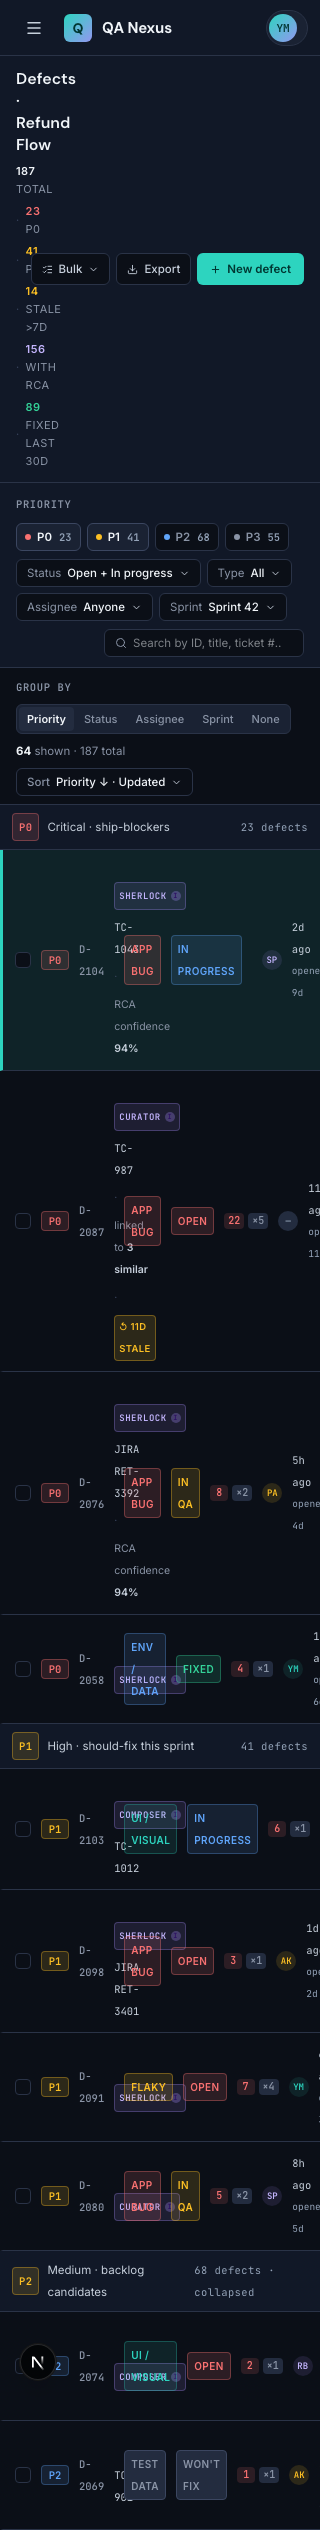
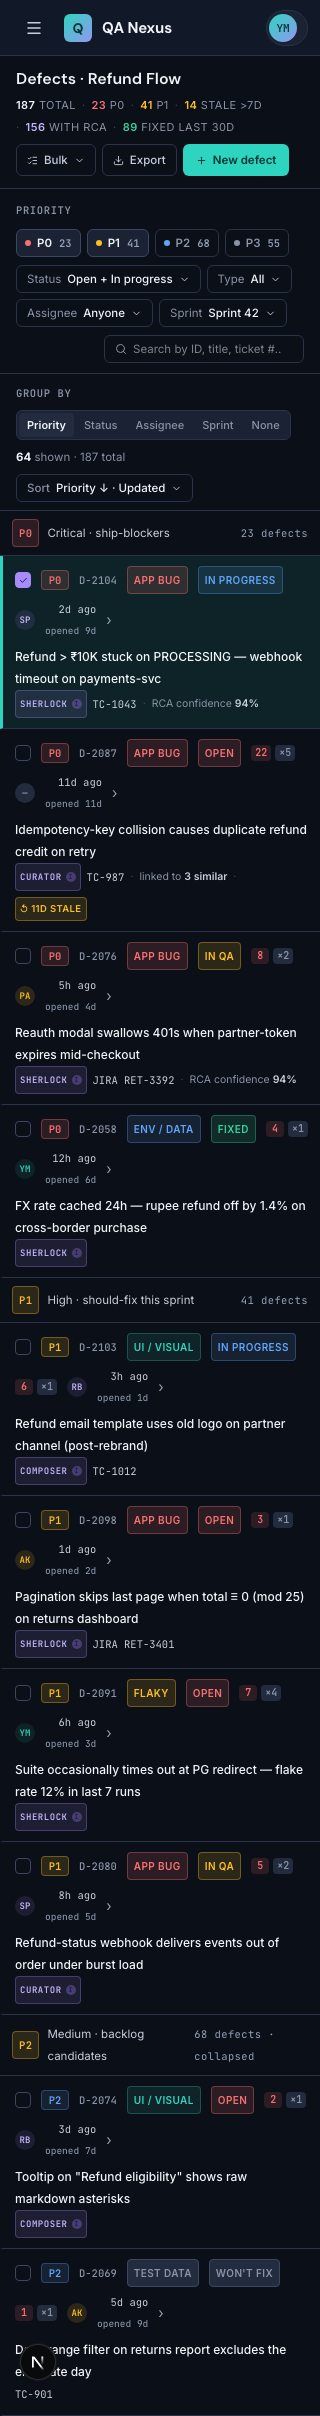
fix(web): f21 round-3 — checkbox fill + bg audit + mobile RWD
Yogesh's round-2 visual gate caught 2 issues:

1. Checkbox fill state on selected defect row:
   - Was: `color: transparent` always — Check icon invisible even when
     row selected. User couldn't see selection state at all.
   - Fix: When isSelected → fill bg with --secondary (violet, canonical
     L362 `.dfrow .ck.on{background:var(--secondary)}`), border violet,
     check icon visible in --secondary-ink.
   - Was wrong color choice too: --primary teal would have been wrong
     even if visible. Canonical uses --secondary violet.

2. Section background colors didn't match canonical:
   - .filter-strip: was --base → canonical L267 sets --canvas. Fixed.
   - .def-head: was --base → canonical L239 has no bg rule (inherits
     canvas via .app-body). Removed explicit bg.
   - .group-sep: was --base → canonical L335 has no bg rule (inherits
     list-pane canvas). Removed explicit bg.
   - .list-pane bg already correct (inherits --canvas from def-shell).
   - .sd-rail bg already correct (--canvas).

3. Mobile (320 px) responsive layout — heavy overlap:
   - def-head: switched from `flex flex-wrap` (which caused dh-left
     stats and dh-right buttons to overlap because stats wrapped before
     dh-right wrapped to its own line) → `flex-col gap-y-2 md:flex-row`.
     Stats stay in left column, buttons drop to row below on mobile.
   - def-head stats: added `whitespace-nowrap` per stat pair so "23 P0"
     stays atomic (was wrapping count and label onto separate lines).
[…]

diff --git a/apps/web/components/defects/defect-row.tsx b/apps/web/components/defects/defect-row.tsx
@@ -73,20 +73,25 @@ export function DefectRowItem({ row, isSelected, onSelect }: Props) {
       onMouseLeave={(e) => {
         if (!isSelected) e.currentTarget.style.background = 'transparent';
       }}
-      className="grid w-full grid-cols-[auto_auto_auto_minmax(0,1fr)_auto_auto_auto_auto_auto_auto] items-center gap-2.5 border-b px-3 py-2.5 text-left transition-colors focus-visible:outline-none focus-visible:ring-2 focus-visible:ring-inset focus-visible:ring-[var(--secondary)]"
+      className="flex w-full flex-wrap items-center gap-x-2.5 gap-y-1 border-b px-3 py-2.5 text-left transition-colors focus-visible:outline-none focus-visible:ring-2 focus-visible:ring-inset focus-visible:ring-[var(--secondary)] md:grid md:grid-cols-[auto_auto_auto_minmax(0,1fr)_auto_auto_auto_auto_auto_auto] md:flex-nowrap"
       style={{
         borderColor: 'var(--border)',
         background: isSelected ? 'var(--primary-soft)' : 'transparent',
         borderLeft: isSelected ? '3px solid var(--primary)' : '3px solid transparent',
       }}
     >
-      {/* Checkbox */}
+      {/* Checkbox — Day-19 Round-3 fix: canonical .ck.on uses --secondary
+       *  violet (L362), unselected is transparent w/ --border-strong outline (L359). */}
       <span
         aria-hidden="true"
-        className="inline-flex h-4 w-4 items-center justify-center rounded border"
-        style={{ background: 'var(--canvas)', borderColor: 'var(--border)', color: 'transparent' }}
+        className="inline-flex h-4 w-4 shrink-0 items-center justify-center rounded border"
+        style={{
+          background: isSelected ? 'var(--secondary)' : 'transparent',
+          borderColor: isSelected ? 'var(--secondary)' : 'var(--border-strong)',
+          color: isSelected ? 'var(--secondary-ink)' : 'transparent',
+        }}
       >
-        <Check size={9} aria-hidden="true" />
+        <Check size={9} aria-hidden="true" strokeWidth={2.6} />
       </span>
 
       {/* Priority chip */}
@@ -102,9 +107,9 @@ export function DefectRowItem({ row, isSelected, onSelect }: Props) {
         {row.id}
       </span>
 
-      {/* Title + meta (df-mid) */}
-      <div className="flex min-w-0 flex-col">
-        <span className="truncate text-[12px] font-medium" style={{ color: 'var(--t1)' }}>
+      {/* Title + meta (df-mid) — on mobile takes a full row below the chips */}
+      <div className="order-last flex w-full min-w-0 basis-full flex-col md:order-none md:w-auto md:basis-auto">
+        <span className="text-[12px] font-medium md:truncate" style={{ color: 'var(--t1)' }}>
           {row.title}
         </span>
         {(row.agentKey || row.ref || row.metaSegments.length > 0 || row.staleLabel) && (

diff --git a/apps/web/components/defects/def-head.tsx b/apps/web/components/defects/def-head.tsx
@@ -25,8 +25,10 @@ export function DefHead() {
     <div
       role="region"
       aria-label={F21_DEF_HEAD.ariaLabel}
-      className="flex flex-wrap items-center gap-x-3 gap-y-2 border-b px-4 py-3 sm:px-5 lg:px-7"
-      style={{ background: 'var(--base)', borderColor: 'var(--border)' }}
+      className="flex flex-col gap-y-2 border-b px-4 py-3 sm:px-5 md:flex-row md:flex-wrap md:items-center md:gap-x-3 lg:px-7"
+      // Day-19 Round-3 bg fix: canonical .def-head L239 defines no background
+      // (inherits canvas). Was --base (too light/wrong shade vs canonical).
+      style={{ borderColor: 'var(--border)' }}
     >
       {/* dh-left: title + stats line */}
       <div className="flex min-w-0 flex-1 flex-col gap-1.5">
@@ -41,9 +43,9 @@ export function DefHead() {
           style={{ color: 'var(--t3)' }}
         >
           {F21_DEF_HEAD.stats.map((stat, i) => (
-            <span key={stat.label} className="inline-flex items-center gap-1.5">
+            <span key={stat.label} className="inline-flex items-center gap-1.5 whitespace-nowrap">
               {i > 0 && <span style={{ color: 'var(--border-strong)' }}>·</span>}
-              <span>
+              <span className="whitespace-nowrap">
                 <b style={{ color: STAT_COLOR[stat.variant], fontWeight: 600 }}>{stat.count}</b>{' '}
                 {stat.label}
               </span>
@@ -52,7 +54,7 @@ export function DefHead() {
         </div>
       </div>
 
-      {/* dh-right: 3 buttons (Bulk, Export, New defect) */}
+      {/* dh-right: 3 buttons (Bulk, Export, New defect) — wraps below dh-left on mobile */}
       <div className="flex flex-wrap items-center gap-1.5">
         <button
           type="button"

diff --git a/apps/web/components/defects/defects-page.tsx b/apps/web/components/defects/defects-page.tsx
@@ -54,12 +54,14 @@ export function DefectsPage() {
               const pill = GROUP_PILL[header.priority];
               return (
                 <div key={header.priority} className="contents">
-                  {/* Group separator banner — canonical .group-sep */}
+                  {/* Group separator banner — canonical .group-sep L335
+                   *  Day-19 Round-3 bg fix: canonical defines no background
+                   *  (inherits list-pane canvas). Was --base (wrong shade). */}
                   <div
                     role="separator"
                     aria-label={`${header.pillLabel} ${header.label}`}
                     className="flex items-center gap-2 border-b px-3 py-2 sm:px-5 lg:px-7"
-                    style={{ background: 'var(--base)', borderColor: 'var(--border)' }}
+                    style={{ borderColor: 'var(--border)' }}
                   >
                     <span
                       className="inline-flex items-center justify-center rounded border px-1.5 py-0.5 font-mono text-[10.5px] font-bold tracking-[0.04em]"

diff --git a/apps/web/components/defects/filter-strip.tsx b/apps/web/components/defects/filter-strip.tsx
@@ -27,7 +27,8 @@ export function FilterStrip() {
       role="region"
       aria-label="Filters"
       className="flex flex-wrap items-center gap-x-3 gap-y-2 border-b px-4 py-2.5 sm:px-5 lg:px-7"
-      style={{ background: 'var(--base)', borderColor: 'var(--border)' }}
+      // Day-19 Round-3 bg fix: canonical L267 .filter-strip{background:var(--canvas)}
+      style={{ background: 'var(--canvas)', borderColor: 'var(--border)' }}
     >
       {/* Priority chip group */}
       <span